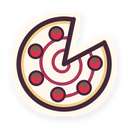
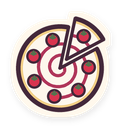
Boards use the cake top views, home-shelf trophies the side views
- board_view / level map load cake_<name>_top@2x; shelf stands load
  cake_<name>_side@2x (Chapters.cake_top / cake_side)
- chapter 7 cake is the chocolate tart; custard moves to the daily
- Victoria top view: slice pulled out instead of removed, so the cake
  keeps its ink outline (cake contrast test)
- export presets ship the _top/_side sprites, not the legacy ones

Claude-Session: https://claude.ai/code/session_01FBTEVVeBLV7VWMw55RgXVW

diff --git a/art/tools/export_views.py b/art/tools/export_views.py
@@ -179,26 +179,30 @@ def scone_top():
     return p.done()
 
 def victoria_top():
-    p = Pen(); cx = cy = 128; R = 104
+    p = Pen(); cx, cy, R = 119, 137, 96
     p.circle(cx, cy, R, fill=rgb("#F2CF87"), outline=OC, width=OW)          # sponge edge
-    p.circle(cx, cy, R - 16, fill=rgb("#FDF7EC"))                           # sugar-dusted top
-    sp = [(cx + (10 + 62 * t) * math.cos(t * 4.6 * math.pi), cy + (10 + 62 * t) * math.sin(t * 4.6 * math.pi)) for t in (i / 160 for i in range(161))]
+    p.circle(cx, cy, R - 15, fill=rgb("#FDF7EC"))                           # sugar-dusted top
+    sp = [(cx + (10 + 56 * t) * math.cos(t * 4.6 * math.pi), cy + (10 + 56 * t) * math.sin(t * 4.6 * math.pi)) for t in (i / 160 for i in range(161))]
     p.line(sp, fill=rgb(RASP), width=7)                                     # jam spiral
-    a0, a1 = math.radians(-78), math.radians(-28)                           # slice cut out (upper right)
+    a0, a1 = math.radians(-78), math.radians(-28); am = (a0 + a1) / 2       # the cut slice (upper right)
     for k in range(7):                                                      # strawberries round the edge, one per slice
-        a = math.radians(-53 + k * 360 / 7)
-        if k == 0: continue
-        x, y = cx + 68 * math.cos(a), cy + 68 * math.sin(a)
-        p.circle(x, y, 17, fill=rgb("#D8344F"), outline=OC, width=5)
+        a = am + k * 2 * math.pi / 7
+        x, y = cx + 63 * math.cos(a), cy + 63 * math.sin(a)
+        p.circle(x, y, 16, fill=rgb("#D8344F"), outline=OC, width=5)
         p.poly([(x - 8, y - 5), (x, y - 13), (x + 8, y - 5), (x, y - 1)], fill=rgb(SAGE))
-    im = p.im; far = 150 * SS
+    # pull the slice out along its bisector, so the whole cake keeps its ink outline (board readability test)
+    im = p.im; far = 150 * SS; off = 24; ox, oy = off * math.cos(am), off * math.sin(am)
     wedge = [(cx * SS, cy * SS)] + [(cx * SS + far * math.cos(a0 + (a1 - a0) * i / 12), cy * SS + far * math.sin(a0 + (a1 - a0) * i / 12)) for i in range(13)]
     hole = Image.new("L", im.size, 0); ImageDraw.Draw(hole).polygon(wedge, fill=255)
-    im.putalpha(Image.fromarray(np.where(np.array(hole) > 0, 0, np.array(im.split()[3])).astype(np.uint8)))
-    p.d = ImageDraw.Draw(im)
-    for a in (a0, a1):                                                      # cut faces: cream + jam line, inked
+    alpha = np.array(im.split()[3]); hm = np.array(hole) > 0
+    piece = im.copy(); piece.putalpha(Image.fromarray(np.where(hm, alpha, 0).astype(np.uint8)))
+    im.putalpha(Image.fromarray(np.where(hm, 0, alpha).astype(np.uint8)))
+    moved = Image.new("RGBA", im.size, (0, 0, 0, 0)); moved.paste(piece, (int(round(ox * SS)), int(round(oy * SS))))
+    p.layer(moved)
+    for a in (a0, a1):                                                      # cut faces, inked on the cake and on the slice
         ex, ey = cx + (R - 4) * math.cos(a), cy + (R - 4) * math.sin(a)
-        p.line([(cx, cy), (ex, ey)], fill=OC, width=OW)
+        p.line([(cx, cy), (ex, ey)], fill=OC, width=7)
+        p.line([(cx + ox, cy + oy), (ex + ox, ey + oy)], fill=OC, width=7)
     return p.done()
 
 def macaron_top():

diff --git a/tools/sync_presets.py b/tools/sync_presets.py
@@ -31,8 +31,11 @@ ONE_X = sorted(os.path.relpath(f, root) for f in glob.glob(os.path.join(root, "a
 # none is excluded any more. (SM ruling 2026-11-01 had kept the 8 non-berry cakes out of the pck while berry was the
 # only v1 cake; that exclusion made the exported game fail to load them.) tests/test_export_presets.gd guards this.
 SHIPPED_CAKES = ["berry", "scone", "victoria", "lemon", "apricot", "bakewell", "custard", "macaron", "chocolate"]
+# 2026-11-13: the game loads cake_<name>_top@2x (boards, map) and cake_<name>_side@2x (home-shelf trophies); the
+# unsuffixed cake_<name>@2x legacy sprites are no longer loaded, so they stay out of the pck.
+KEEP = {f"cake_{c}_{v}@2x.png" for c in SHIPPED_CAKES for v in ("top", "side")}
 EXTRA_CAKES = sorted(os.path.relpath(f, root) for f in glob.glob(os.path.join(root, "assets", "board", "cake_*@2x.png"))
-                     if os.path.basename(f)[len("cake_"):-len("@2x.png")] not in SHIPPED_CAKES)
+                     if os.path.basename(f) not in KEEP)
 EXC = EXC + ", assets/backdrop/README.txt" + "".join(", " + f for f in ONE_X + EXTRA_CAKES)
 def preset(i, name, path, excl, release_tpl, debug_tpl):
     return f'''[preset.{i}]

diff --git a/spec/SPEC.md b/spec/SPEC.md
@@ -21,6 +21,7 @@ Changelog
 - 2026-10-25 **v1.0.1 (still LOCKED)**: clarification only, no gameplay change. TT-AC-53 reworded: "0 `sendBeacon`/`fetch` from game code; any `sendBeacon` must come from the CG SDK and target hosts on `/workspace/tea-and-tarts/portal/CG_NETWORK_ALLOWLIST.md`" (the CG SDK itself beacons to `cza.crazygames.com/event` on live CG, so the v1.0 "0 sendBeacon" would fail there); intent unchanged (no analytics network calls from our code). The 5-min interstitial floor (U2: session_s ≥300 s, ≥180 s gap; TT-AC-17) is **reconfirmed by TT Studio Manager** as written. → TT QA, TT Studio Manager, GB, PO.
 - 2026-11-01 **v1.0.2 (still LOCKED)** (ruled by TT Studio Manager): (1) ch5 recipe card "Bakewell slice" → **"Cherry Bakewell"** (round tart, fits Art's round-cake trade-dress rule; Build already ships it); ch3 "Lemon drizzle" keeps its name and is drawn round (§3.2). (2) D-02 on phones: rules text **≤3 lines at ≥16 px** (at 390 px it wraps to 3 lines at 16 px; 15 px would break the TT-AC-07 body-text minimum); board stays ≥352 px, targets ≥44 px; the space comes from padding, never font or board. (3) TT-AC-53 clarifying note: the engine loader's same-origin fetches of the game's own export files (index.wasm, index.pck, other export files) are allowed; "game code" = our GDScript and JS only (core rule unchanged). (4) §10: style B-revised approved by Shahar for production as **B2**; canonical = `art/*_B2.png` + `docs/art/STYLE_GUIDE.md`; Art item closed; title is the only open item. Post-lock follow-ups updated (GB §4 worked example validated). `spec_assert.py` asserts the D-02 3-line rule. → TT QA, TT Studio Manager, GB.
 - 2026-11-03 **v1.1 (LOCKED; Shahar request: "more structure, industry standard")**: gameplay-structure change, rules unchanged. (1) **Level map** (§3.7, §9): every chapter board is a numbered **level 1–96** (level = (chapter − 1) × 12 + board); a Levels screen shows the 8 chapters as groups of 12 level buttons with their best stars; solved levels replay, the first unsolved level plays, later levels are locked (sequential unlock); the board title is "Level N" (was "Chapter N · Tray b/5"); "Replay a chapter" is replaced by the Levels screen (Home button "Levels", shown once any level is solved). (2) **More content** (§3.2, D-05): chapters grow from 5 to **12 levels** (8 × 12 = **96 chapter boards**, ≈121 min, was 40 / ≈50 min); **b1–b5 of every chapter are the v1.0.2 boards, unchanged** (same ids, same boards); b6–b12 come from the same validated packs, same ramp rules (breather after hard, ≤1 G4 per chapter). Chapter end (recipe card + décor + midgame slot) moves to the 12th level; Bake of the Day unlocks when chapter 1 (12 levels) is done. (3) **Stars** (§3.6, D-09 revised): each solved level earns **1–3 stars**: ★ baked, ★★ baked with no hints, ★★★ no hints and no conflict shown; best result kept per level (replays can raise it, never lower it); shown on the solved card, the level map, and Home ("Stars: x / 288"). Stars are a mastery mark only: **no currency, nothing to buy or spend, no time component** (D-16 unchanged: no timer during play). Daily shows its stars on the solved card but stores none. New ACs TT-AC-54..56; TT-AC-34/35/51 updated (12 boards, level map). Best times / leaderboards stay OUT. Follow-up for SM (not blocking): chapter-end is now every ~9–20 min, so midgame interstitials are rarer than in v1.0.2 (rules unchanged). → TT QA, TT Studio Manager, GROWTH, GB, PO.
+- 2026-11-13 **cake views (Shahar request)**: every cake has a top view (`cake_<name>_top`, boards + level map) and a side view (`cake_<name>_side`, home-shelf stands = chapter trophies). Chapter 7 uses the **chocolate** tart; **custard** moved to the Bake of the Day. Mentions of "chocolate daily" below predate this.
 - 2026-11-03 **v1.2 (LOCKED; Shahar request)**: **one cake per chapter** (D-03 revised, §10): each chapter's board uses the B2 cake of its recipe card: ch1 scone, ch2 victoria (slice), ch3 lemon, ch4 apricot (jam tart), ch5 bakewell, ch6 berry v2, ch7 custard (crumble), ch8 macaron; Bake of the Day uses **chocolate**; debug/free boards keep berry v2. The level map shows each chapter's cake next to its heading. All 9 sprites already ship in `assets/board/` (B2 style: ink outline + cream halo); no new art. Readability is measured on the sprite pixels (TT-AC-33 updated; `tests/test_cake_contrast.gd`): cream halo silhouette ≥98% of the outline, ink outline ≥94%, ink ≥3:1 on all 9 patches. Measured: halo 99–100% on all 9; ink 95–100% (lowest: victoria 0.95, macaron 0.95, because the strawberry on the slice and the macaron feet have no ink outline: Art follow-up, non-blocking). Per-region pastry variety stays OUT. → TT QA, TT Studio Manager, ART, GB.
 - 2026-11-11 **v1.3 (LOCKED; Shahar request: "fix the cards")**: recipe cards (§8, Recipe Book, chapter end, All recipes baked): the **"Chapter N" line is removed** from the card (the chapter-end title already says it); an unlocked card is **"alive"**: the medallion illustration breathes (2.5% zoom, fading out before the rim) with a small colour lift, a glossy light band sweeps the card every 4.2 s, 7 gold sparkles twinkle around the medallion, steam rises from the cakes (not on the small All-recipes thumbnails) and a warm gold glow pulses behind the card. At the chapter end the card also floats (±1.2° tilt, ≤2% scale) and 12 sparkles burst out as the flip lands. No new art (shader `ui/shaders/recipe_card.gdshader` + drawn sparkles + the existing steam puff); locked backs stay plain; hidden cards do not animate. Reduced-motion stays OUT (§8). → TT QA, ART, GB.
 - 2026-11-11 **v1.4 (LOCKED; Shahar: "start with CI and the ad slot")**: **level-break ad slot** (D-19, §3.4, §12; R-03 amended by the owner). Since v1.1 a chapter is 12 levels (9–20 min), so the chapter-end slot alone gave far fewer interstitials than v1.0.2 (5-level chapters). New second midgame slot, origin **`level_break`**: on first play, in the transition **after the 4th and 8th level of a chapter** (tunable `ads.level_break_every` = 4; never after b12, which is the chapter end), after the solved card and before the next level. **All existing floors apply unchanged and are shared with the chapter-end slot:** no ad of any kind before chapter 1 is finished (so the first possible level break is after level 16), session_s ≥ 300, ≥ 180 s since the previous midgame request (either slot), never on replays or the daily, never if a rewarded ad played on that board, never before the first `gameplayStart`. Decisions are logged in `ads_decisions[]` with the same reason enum (BR-3). TT-AC-17 and TT-AC-25 updated (the ≤2.0 s solve→next rule does not apply to a transition in which a level-break ad is shown). Expected pace: about one interstitial per 4–7 min of play, as in v1.0.2. → TT QA, TT Studio Manager, GROWTH, GB, PO.
@@ -141,7 +142,7 @@ Est. time = sum of median targets (§3.3; tutorial trays at their 40 s estimate)
   "v102_boards_per_chapter": 5,
   "chapter_minutes_range": [8, 21],
   "min_total_content_min": 100,
-  "cakes": {"by_chapter": ["scone", "victoria", "lemon", "apricot", "bakewell", "berry", "custard", "macaron"], "daily": "chocolate", "debug": "berry", "min_halo_coverage": 0.98, "min_ink_coverage": 0.94},
+  "cakes": {"by_chapter": ["scone", "victoria", "lemon", "apricot", "bakewell", "berry", "chocolate", "macaron"], "daily": "custard", "debug": "berry", "min_halo_coverage": 0.98, "min_ink_coverage": 0.94},
   "stars": {"max_per_board": 3, "no_hint": 2, "no_hint_no_conflict": 3, "time_based": false, "currency": false},
   "level_map": {"unlock": "sequential", "cols_phone": 4, "cols_wide": 6, "button_px": 72},
   "daily": {"pool": 400, "epoch": "2026-11-02", "sizes_mon_to_sun": [6,6,7,7,7,8,8], "max_grade_weekday": 2, "max_grade_weekend": 3, "forgiven_miss_min_gap_days": 7},
@@ -313,9 +314,9 @@ KNOWN from playbook/starter: base 390x844 portrait, `canvas_items`/`expand`, saf
   | 4 | Jam tarts | apricot |
   | 5 | Cherry Bakewell | bakewell |
   | 6 | Strawberry shortcake | berry (berry v2) |
-  | 7 | Apple crumble | custard (crumble tart) |
+  | 7 | Apple crumble | chocolate (chocolate tart; Shahar 2026-11-13, was custard, which moved to the daily) |
   | 8 | Macarons | macaron |
-  | daily | Bake of the Day | chocolate |
+  | daily | Bake of the Day | custard (Shahar 2026-11-13; was chocolate, now the chapter 7 cake) |
   All shapes follow the STYLE_GUIDE shape rules (round, fluted, lattice or slice; the macaron and scone domes are unwrapped). The golden "baked" tint is a colour multiply, so it applies to every piece.
 - **Berry v2 (reference piece)** = ART's round fluted cake (approved for style B; `art/tools/ttdraw.py` piece kind `berry2`; comparison sheet `art/small_size_test_berry_v2.png`): lighter crust #F2C584, lighter berries #B83A5E, ink outline, **cream halo #FFF8EC outside the ink outline** for contrast on dark patches. Outer-edge contrast vs dark patches: rhubarb 1.55 → **3.20:1**, cocoa 1.37 → **2.84:1**, blueberry 1.24 → **2.57:1**; on every patch the ink outline (#43283A) carries ≥3:1 (ART: ink on the darkest patch 3.9:1). The old berry is not shipped. No rectangular frosted pastries, sprinkles or "pop" styling (ART_DIRECTION §2, trade-dress rule).
 - Tray frame: pewter serving tray rim; cells are padded soft tiles, **no grid lines** (B-revised). Tiles, lettering and covers code-drawn or hand-set (Playbook stage 5).
